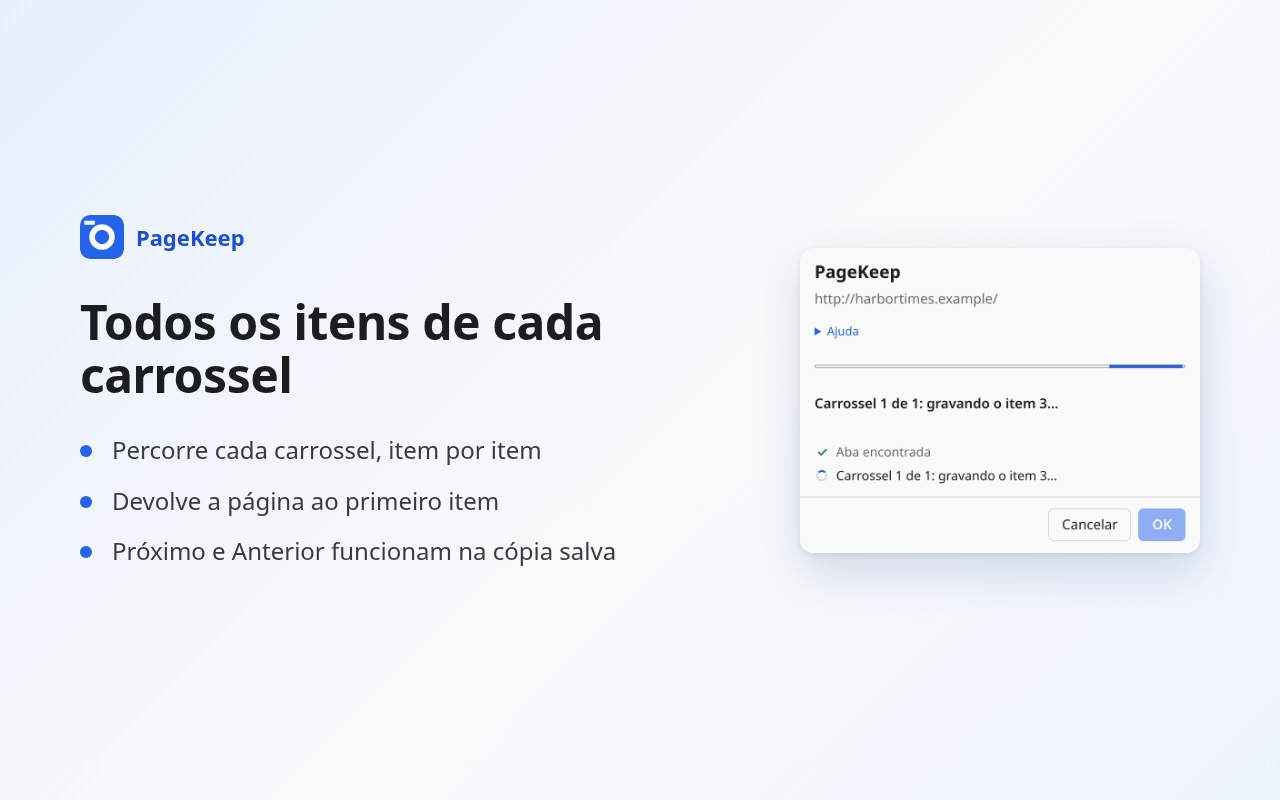
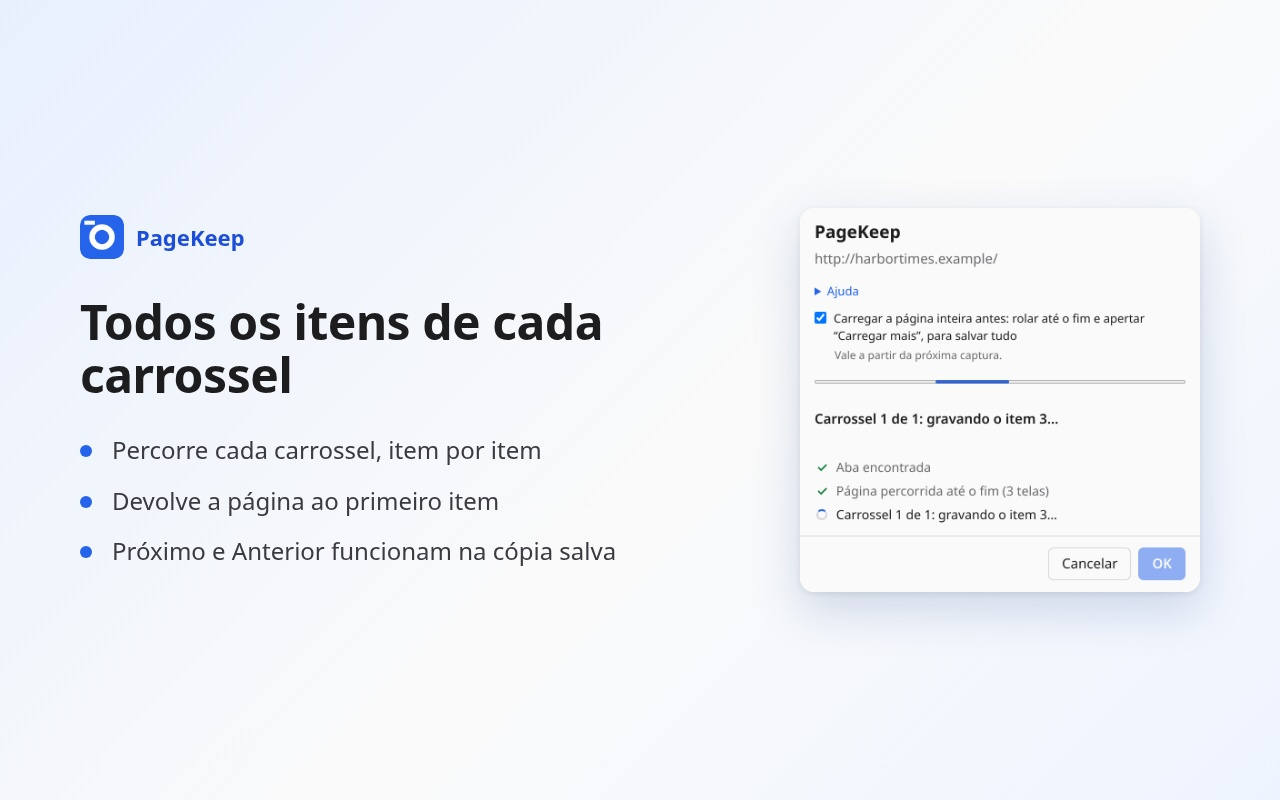
Load the whole page first: scroll to the end and press "Load more"
- inpage.js revealAll(): before copying, scroll the page (or an app's
  own scrolling pane) screen by screen, following it as it grows, up
  to 40 screens or 20 s; press up to 5 "Load more" / "Carregar mais" /
  "Ver mais" / "Cargar más" buttons (labels compared without accents),
  never a link to another page or a form button; then scroll back.
- A popup option, "Load the whole page first", on by default: the
  extension's only setting (settings.reveal in storage.local), read by
  background.js when a capture starts and passed to the capture; it
  applies from the next capture. The popup shows the new step.
- carousel.mjs: a lazy image far down, a "Carregar mais" list (pressed
  twice), a "Ver mais" link that must not be followed, scroll restored,
  and the option switched off in the popup skipping the step.
- PRIVACY.md, STORE-POLICY.md (storage), help pages, READMEs, store
  descriptions, screenshots and store pictures updated. CLAUDE.md gains
  the goal as the user stated it. Version 1.3.0.

Changed region(s): [[0.625, 0.2812, 0.9375, 0.5312], [0.625, 0.625, 0.9375, 0.75], [0.625, 0.5625, 0.8438, 0.6562]]

diff --git a/page-snapshot-extension/inpage.js b/page-snapshot-extension/inpage.js
@@ -7,9 +7,14 @@
 // offscreen.js, which has DOM APIs and cross-origin fetch.
 
 // `editorTexts` comes from inpage-main.js: the full text of Monaco editors, keyed by data-uri.
-export async function extractPage(editorTexts = {}) {
+// `options.reveal`: first scroll through the page and press its "Load more" buttons, so content
+// that only appears then is in the copy too (the popup's "Load the whole page first" option).
+export async function extractPage(editorTexts = {}, options = {}) {
   const MAX_FRAME_DEPTH = 4;
   const MAX_PAGER_ITEMS = 60;
+  const MAX_SCREENS = 40; // endless feeds stop here…
+  const MAX_REVEAL_MS = 20_000; // …or here
+  const MAX_LOAD_MORE = 5;
   const frames = {};
   let frameCounter = 0;
 
@@ -168,6 +173,77 @@ export async function extractPage(editorTexts = {}) {
       if (now === last) return;
       last = now;
     }
+  }
+
+  // ---- Content that only appears as you scroll, or after "Load more" --------------------------
+  //
+  // Lazy images and blocks load when they come into view, and lists grow when their "Load more"
+  // button is pressed: before copying, scroll through the page screen by screen (following it
+  // as it grows, up to MAX_SCREENS or MAX_REVEAL_MS), press up to MAX_LOAD_MORE such buttons, and
+  // go back to where the user was.
+  const LOAD_MORE_RE = /^(?:(?:load|show|see|view) more(?: \w+)?|(?:carregar|ver|mostrar|exibir) mais(?: \w+)?|(?:cargar|ver|mostrar) mas(?: \w+)?)$/;
+  // A real link to another page is never followed, and a form is never submitted.
+  const leavesPage = (el) => {
+    if (submitsForm(el)) return true;
+    const link = el.closest('a[href]');
+    const href = link && link.getAttribute('href').trim();
+    return !!href && !href.startsWith('#') && !/^javascript:/i.test(href);
+  };
+  // The element that scrolls the page: the document, or an app's own scrolling pane.
+  function scroller() {
+    const root = document.scrollingElement || document.documentElement;
+    if (root.scrollHeight > innerHeight + 2) return root;
+    let best = null;
+    for (const el of document.querySelectorAll('body *')) {
+      if (el.scrollHeight <= el.clientHeight + 2 || el.clientHeight < innerHeight / 2) continue;
+      if (!/(auto|scroll)/.test(getComputedStyle(el).overflowY)) continue;
+      if (!best || el.scrollHeight > best.scrollHeight) best = el;
+    }
+    return best || root;
+  }
+  // Waits until the page stops growing (new items or images arriving).
+  async function grown() {
+    let last = document.getElementsByTagName('*').length;
+    for (let waited = 0; waited < 3000; waited += 200) {
+      await sleep(200);
+      const now = document.getElementsByTagName('*').length;
+      if (now === last && waited >= 400) return;
+      last = now;
+    }
+  }
+  async function revealAll() {
+    report({ phase: 'reveal' });
+    const pane = scroller();
+    const start = { left: pane.scrollLeft, top: pane.scrollTop };
+    const deadline = Date.now() + MAX_REVEAL_MS;
+    let screens = 0;
+    let pressed = 0;
+    const scrollDown = async () => {
+      while (screens < MAX_SCREENS && Date.now() < deadline && !cancelled) {
+        const before = pane.scrollTop;
+        pane.scrollTop = before + pane.clientHeight * 0.9;
+        screens++;
+        await sleep(250);
+        if (pane.scrollTop + pane.clientHeight >= pane.scrollHeight - 2 || pane.scrollTop === before) {
+          await grown(); // an endless feed adds items at the bottom
+          if (pane.scrollTop + pane.clientHeight >= pane.scrollHeight - 2) return;
+        }
+      }
+    };
+    await scrollDown();
+    while (pressed < MAX_LOAD_MORE && Date.now() < deadline && !cancelled) {
+      const button = Array.from(document.querySelectorAll('button, [role="button"], a'))
+        .find((el) => LOAD_MORE_RE.test(plain(el.textContent || el.getAttribute('aria-label'))) && !leavesPage(el) && !isDisabled(el) && el.offsetParent !== null);
+      if (!button) break;
+      button.scrollIntoView({ block: 'center' });
+      button.click();
+      pressed++;
+      await grown();
+      await scrollDown(); // what it added may load more as it comes into view
+    }
+    pane.scrollTo(start.left, start.top);
+    await sleep(300);
+    report({ phase: 'reveal-done', screens, pressed });
   }
 
   function fragmentHtml(region) {
@@ -455,7 +531,8 @@ export async function extractPage(editorTexts = {}) {
     }
   };
   try {
-    recorded = await explorePagers();
+    if (options.reveal) await revealAll();
+    if (!cancelled) recorded = await explorePagers();
   } finally {
     try { chrome.runtime.onMessage.removeListener(onCancel); } catch { /* not in an extension */ }
   }

diff --git a/page-snapshot-extension/background.js b/page-snapshot-extension/background.js
@@ -50,8 +50,16 @@ async function clearJob(job) {
   if (job) await setBadge(job.tabId, '');
 }
 
+// The popup's option "Load the whole page first" (on unless the user turned it off), kept in
+// storage.local, the extension's only setting.
+async function revealOption() {
+  const { settings } = await chrome.storage.local.get('settings');
+  return settings?.reveal !== false;
+}
+
 async function startCapture(tabId) {
   const tab = await chrome.tabs.get(tabId);
+  const reveal = await revealOption();
   const job = {
     jobId: crypto.randomUUID(),
     tabId,
@@ -64,7 +72,7 @@ async function startCapture(tabId) {
   await chrome.storage.session.set({ job });
   await setBadge(tabId, 'running');
   await chrome.offscreen.createDocument({
-    url: `${OFFSCREEN}?tabId=${tabId}&job=${job.jobId}&version=${chrome.runtime.getManifest().version}`,
+    url: `${OFFSCREEN}?tabId=${tabId}&job=${job.jobId}&version=${chrome.runtime.getManifest().version}&reveal=${reveal ? 1 : 0}`,
     reasons: ['DOM_PARSER', 'BLOBS'],
     justification: 'Rebuilds the captured page with its files and packs it into a ZIP while the popup may be closed.',
   });
@@ -150,7 +158,7 @@ const inTab = async (tabId, func, args, world) =>
 const rpc = {
   tab: ({ tabId }) => chrome.tabs.get(tabId).then((t) => ({ url: t.url || '' })),
   readEditors: ({ tabId }) => inTab(tabId, readEditorsInMainWorld, [], 'MAIN'),
-  extractPage: ({ tabId, editorTexts }) => inTab(tabId, extractPage, [editorTexts]),
+  extractPage: ({ tabId, editorTexts, options }) => inTab(tabId, extractPage, [editorTexts, options]),
   fetchInTab: ({ tabId, url }) => inTab(tabId, fetchInTab, [url]),
   attach: async ({ tabId }) => {
     await chrome.debugger.attach({ tabId }, '1.3');

diff --git a/page-snapshot-extension/offscreen.js b/page-snapshot-extension/offscreen.js
@@ -44,6 +44,7 @@ const params = new URLSearchParams(location.search);
 const tabId = Number(params.get('tabId'));
 const jobId = params.get('job');
 const version = params.get('version'); // offscreen documents have no chrome.runtime.getManifest
+const reveal = params.get('reveal') === '1'; // the popup's "Load the whole page first" option
 
 async function call(op, args = {}) {
   const reply = await chrome.runtime.sendMessage({ type: 'rpc', op, args: { tabId, ...args } });
@@ -112,6 +113,11 @@ chrome.runtime.onMessage.addListener((report, sender) => {
     case 'carousel-done': step(id, msg('carousel_done', pager, pagers, report.items), 'done'); break;
     case 'carousel-skip': dropStep(id); break;
     case 'snapshot': step('dom', msg('step_dom_copying')); break;
+    case 'reveal': step('reveal', msg('step_reveal')); break;
+    case 'reveal-done': step('reveal', [
+      msg('step_reveal_done', report.screens),
+      ...(report.pressed ? [plural(report.pressed, 'step_reveal_pressed')] : []),
+    ], 'done'); break;
     default: break;
   }
 });
@@ -607,7 +613,7 @@ async function main() {
     else dropStep('editors');
 
     step('read', msg('step_read'));
-    page = await call('extractPage', { editorTexts: editorTexts || {} });
+    page = await call('extractPage', { editorTexts: editorTexts || {}, options: { reveal } });
     if (page?.cancelled) return; // background.js is closing this document
     if (!page) throw new Error('the page returned nothing');
     dropStep('read');

diff --git a/page-snapshot-extension/popup.html b/page-snapshot-extension/popup.html
@@ -18,6 +18,7 @@
       <ul>
         <li><strong data-i18n="help_close_label"></strong> <span data-i18n="help_close"></span></li>
         <li><strong data-i18n="cancel"></strong> <span data-i18n="help_cancel"></span></li>
+        <li><strong data-i18n="help_reveal_label"></strong> <span data-i18n="help_reveal"></span></li>
         <li><strong data-i18n="ok"></strong> <span data-i18n="help_ok"></span></li>
         <li><strong data-i18n="download_again"></strong> <span data-i18n="help_download"></span></li>
         <li data-i18n="help_one"></li>
@@ -25,6 +26,8 @@
       </ul>
       <p><a id="help-page" href="help.html" target="_blank" data-i18n="help_full"></a></p>
     </details>
+    <label class="option"><input type="checkbox" id="opt-reveal"> <span data-i18n="option_reveal"></span></label>
+    <p class="option-hint" data-i18n="option_reveal_hint"></p>
     <progress id="bar"></progress>
     <p id="status" role="status" data-i18n="status_starting"></p>
     <p id="now" class="muted"></p>

diff --git a/page-snapshot-extension/help.pt_BR.html b/page-snapshot-extension/help.pt_BR.html
@@ -57,6 +57,11 @@
     <section id="running">
       <h2>Durante a captura</h2>
       <ul>
+        <li><strong>Carregar a página inteira antes</strong> (opção no popup, ligada a menos que você desligue): antes de
+          salvar, o PageKeep rola a página até o fim e aperta os botões "Carregar mais", para salvar também as imagens e
+          listas que só aparecem assim, e depois volta para onde você estava. Ele nunca segue um link para outra página
+          nem envia um formulário. Feeds infinitos param em 40 telas ou 20 segundos. A opção vale a partir da próxima
+          captura, já que a captura começa quando o popup abre.</li>
         <li><strong>Você pode fechar o popup</strong> ou clicar na página: a captura continua em segundo plano. Clique no
           ícone de novo para ver como está.</li>
         <li>O selo do ícone mostra <strong>…</strong> enquanto roda, <strong>✓</strong> quando termina e

diff --git a/page-snapshot-extension/help.html b/page-snapshot-extension/help.html
@@ -57,6 +57,11 @@
     <section id="running">
       <h2>While it runs</h2>
       <ul>
+        <li><strong>Load the whole page first</strong> (an option in the popup, on unless you turn it off): before
+          saving, PageKeep scrolls through the page and presses its "Load more" buttons, so pictures and lists that only
+          appear then are saved too, and goes back to where you were. It never follows a link to another page or sends a
+          form. Endless feeds stop after 40 screens or 20 seconds. The option applies from the next capture, since a
+          capture starts as soon as the popup opens.</li>
         <li><strong>You can close the popup</strong>, or click on the page: the capture carries on in the background.
           Click the icon again to see how it is going.</li>
         <li>The icon's badge shows <strong>…</strong> while it runs, <strong>✓</strong> when it is done and

diff --git a/page-snapshot-extension/popup.css b/page-snapshot-extension/popup.css
@@ -25,6 +25,9 @@ details { margin-top: 12px; }
 li { overflow-wrap: anywhere; margin: 4px 0; font-size: 13px; }
 #notes { padding-left: 1.2em; margin: 8px 0; }
 #notes .warn { color: var(--error); }
+.option { display: flex; gap: 8px; align-items: flex-start; font-size: 13px; margin: 10px 0 0; cursor: pointer; }
+.option input { margin: 2px 0 0; }
+.option-hint { font-size: 12px; color: var(--muted); margin: 2px 0 0 22px; }
 #status { font-weight: 600; margin-bottom: 2px; }
 #now { font-size: 12px; margin: 0 0 8px; min-height: 1.4em; font-family: ui-monospace, monospace; overflow: hidden; text-overflow: ellipsis; white-space: nowrap; }
 #steps { list-style: none; padding: 0; margin: 12px 0; }

diff --git a/page-snapshot-extension/popup.js b/page-snapshot-extension/popup.js
@@ -75,6 +75,13 @@ $('cancel').onclick = async () => {
 };
 $('download').onclick = () => send('popup-download');
 
+// "Load the whole page first": a setting for the next captures (this one has already started).
+chrome.storage.local.get('settings').then(({ settings }) => { $('opt-reveal').checked = settings?.reveal !== false; });
+$('opt-reveal').onchange = async () => {
+  const { settings } = await chrome.storage.local.get('settings');
+  await chrome.storage.local.set({ settings: { ...settings, reveal: $('opt-reveal').checked } });
+};
+
 chrome.storage.session.onChanged.addListener((changes) => {
   if (changes.job) render(changes.job.newValue);
 });

diff --git a/CLAUDE.md b/CLAUDE.md
@@ -6,12 +6,14 @@ This file provides guidance to Claude Code (claude.ai/code) when working with co
 
 `page-snapshot-extension/` is PageKeep (called Page Snapshot up to 1.1.1; the folder and the repository keep the old name), a plain-JavaScript Manifest V3 extension for Chromium browsers (Chrome, Opera, Edge…) that saves the active tab as an offline ZIP (see its `README.md`). It has no build step and no npm dependencies: load the folder unpacked on the browser's extensions page. It previously lived in `asantos43/projetos-ia-genericos` under `chrome-extensions/`, where a frozen copy remains; do not edit that copy.
 
-Architecture: the toolbar button (or Alt+Shift+S) opens `popup.html`, the action popup under the icon, which only renders the capture and sends OK / Cancel / Download again; the captured tab stays visible, so Chrome does not throttle its timers while carousels are stepped. `background.js` (a module service worker) keeps the capture ("job") in `chrome.storage.session`, sets the icon badge, and runs the capture in an offscreen document (`offscreen.html`), which lives on when the popup closes; the offscreen page only has `chrome.runtime`, so it asks `background.js` for every `chrome.tabs` / `scripting` / `debugger` / `downloads` call. One capture at a time. No host permissions: `activeTab` gives the captured tab, and files the tab had not loaded are downloaded by the tab itself through the debugger (`Network.loadNetworkResource`); see `docs/STORE-POLICY.md`, the Chrome Web Store checklist that every release must pass. `inpage.js` runs in the tab and snapshots the live DOM (and steps through carousels, and turns Monaco editors into plain text), with `inpage-main.js` reading editor text from the page's own JS world. `offscreen.js` (Cancel makes `background.js` tell `inpage.js` to stop and restore carousels, then close the offscreen document) reads the resources the tab already loaded through `chrome.debugger`, downloads the rest (throttled per host, retrying 429/503), rewrites URLs and builds the ZIP with `lib/zip.js`. The full help page is `help.html` (English) and `help.pt_BR.html`, linked from the popup's Help through the `help_page` message. Every text is in `_locales/en` and `_locales/pt_BR` (same keys); the offscreen page has no `chrome.i18n`, so it publishes texts as `{ key, args }` and `popup.js` translates them. `lib/helpers.js` holds the pure, Node-testable helpers. `lib/offline/` is the offline library: one self-contained local script per kind of element (`disclosure.js`, `tabs.js`, `pager.js` for carousels recorded item by item, `slider.js` for sliding strips whose positions the capture recorded, `editors.js`), listed with a `needed(html)` test in `index.js`; `offscreen.js` embeds only the modules a saved page needs.
+Architecture: the toolbar button (or Alt+Shift+S) opens `popup.html`, the action popup under the icon, which only renders the capture and sends OK / Cancel / Download again; the captured tab stays visible, so Chrome does not throttle its timers while carousels are stepped. `background.js` (a module service worker) keeps the capture ("job") in `chrome.storage.session`, sets the icon badge, and runs the capture in an offscreen document (`offscreen.html`), which lives on when the popup closes; the offscreen page only has `chrome.runtime`, so it asks `background.js` for every `chrome.tabs` / `scripting` / `debugger` / `downloads` call. One capture at a time. With the popup's "Load the whole page first" option (the extension's only setting, `settings.reveal` in `chrome.storage.local`, on by default), `inpage.js` first scrolls through the page and presses "Load more" buttons. No host permissions: `activeTab` gives the captured tab, and files the tab had not loaded are downloaded by the tab itself through the debugger (`Network.loadNetworkResource`); see `docs/STORE-POLICY.md`, the Chrome Web Store checklist that every release must pass. `inpage.js` runs in the tab and snapshots the live DOM (and steps through carousels, and turns Monaco editors into plain text), with `inpage-main.js` reading editor text from the page's own JS world. `offscreen.js` (Cancel makes `background.js` tell `inpage.js` to stop and restore carousels, then close the offscreen document) reads the resources the tab already loaded through `chrome.debugger`, downloads the rest (throttled per host, retrying 429/503), rewrites URLs and builds the ZIP with `lib/zip.js`. The full help page is `help.html` (English) and `help.pt_BR.html`, linked from the popup's Help through the `help_page` message. Every text is in `_locales/en` and `_locales/pt_BR` (same keys); the offscreen page has no `chrome.i18n`, so it publishes texts as `{ key, args }` and `popup.js` translates them. `lib/helpers.js` holds the pure, Node-testable helpers. `lib/offline/` is the offline library: one self-contained local script per kind of element (`disclosure.js`, `tabs.js`, `pager.js` for carousels recorded item by item, `slider.js` for sliding strips whose positions the capture recorded, `editors.js`), listed with a `needed(html)` test in `index.js`; `offscreen.js` embeds only the modules a saved page needs.
+
+The goal, in the user's words: the snapshot is a "photo" of the page to have offline, as close as possible to the online original: responsive, with all the content the page has (texts, images, files) and with its elements working (carousels, tabs…). Judge every change by how close the offline copy gets to the live page. The capture may act on the page to bring content in (scroll through it, press "Load more", step through carousels), always putting it back as it was.
 
 Rules that shape the design:
 
 - A snapshot must never contact the network when opened: the page's own scripts, `ping` attributes and cross-origin iframes are removed, and references to anything that could not be saved are dropped rather than left pointing online.
-- Local scripts that restore page behaviour offline are welcome (add a module to `lib/offline/` when interactive content is already in the saved DOM, or when the capture can record what the page's script would do, as `slider.js` does); they must be self-contained and never use the network.
+- The page's own scripts never go into the copy; the local scripts of `lib/offline/` are the extension's own, written only to reproduce the page's behaviour offline. Local scripts that restore page behaviour offline are welcome (add a module to `lib/offline/` when interactive content is already in the saved DOM, or when the capture can record what the page's script would do, as `slider.js` does); they must be self-contained and never use the network.
 
 `PRIVACY.md` (English and Portuguese) is the privacy policy, published as the public gist https://gist.github.com/asantos43/a0566af48d0894dc44b72bee43b22da8 for the store; after changing it, run `gh gist edit a0566af48d0894dc44b72bee43b22da8 --filename PRIVACY.md PRIVACY.md` (confirm with the user first: it is an external action). `store/` holds the Chrome Web Store listing: `README.md` (field by field), `PUBLISHING.md` (the dashboard steps, in Portuguese), the descriptions (`description.en.txt`, `description.pt_BR.txt`, plain text, naming no other product) and the pictures. `docs/DEVELOPMENT.md` holds the background that is not in the code: tool versions, how to load and test in each browser, versioning and releases, and how this repository was extracted.
 

diff --git a/PRIVACY.md b/PRIVACY.md
@@ -1,6 +1,6 @@
 # PageKeep — Privacy policy
 
-*Last updated: 2026-09-27. Published at https://gist.github.com/asantos43/a0566af48d0894dc44b72bee43b22da8. Português abaixo.*
+*Last updated: 2026-09-27 (the option to load the whole page). Published at https://gist.github.com/asantos43/a0566af48d0894dc44b72bee43b22da8. Português abaixo.*
 
 PageKeep is a browser extension by Anderson Santos (asantos35@gmail.com). It saves the page in the
 tab you choose as a ZIP file that opens offline.
@@ -16,7 +16,9 @@ pages you save.
 - **The page you capture.** When you open PageKeep's popup on a tab (by clicking its icon or
   pressing Alt+Shift+S), it reads that page as it is on screen: its content, styles, images and
   fonts, the current values of its forms, its canvases and code editors, and every item of its
-  carousels. Password fields are always left empty. It does this only on that tab and only while
+  carousels. With the option "Load the whole page first" (on unless you turn it off), it first
+  scrolls through the page and presses its "Load more" buttons, as you could, so that content that
+  only appears then is saved too. Password fields are always left empty. It does this only on that tab and only while
   the capture runs.
 - **All of it goes only into the ZIP file** saved in your Downloads folder, on your computer. The
   ZIP also records the page's address and title and the time of the capture
@@ -37,7 +39,10 @@ saved copy makes no request at all when you open it.
 While a capture is running or its result is on screen, its progress (the page's address, the
 steps, the file name, what could not be saved) is kept in the browser's session storage, so the
 popup can show it when reopened. It is deleted when you press OK or Cancel, or when the browser
-quits; a finished capture is also deleted when its tab closes. The extension keeps no settings and no history.
+quits; a finished capture is also deleted when its tab closes.
+
+The extension's only setting, whether the popup's option "Load the whole page first" is on, is kept
+in the browser's local storage on this computer (not synced). The extension keeps no history.
 
 ## Limited Use
 
@@ -70,7 +75,9 @@ você salva.
 - **A página que você captura.** Quando você abre o popup do PageKeep numa aba (clicando no ícone
   ou apertando Alt+Shift+S), ele lê essa página como ela está na tela: o conteúdo, os estilos, as
   imagens e as fontes, os valores atuais dos formulários, os canvases e editores de código, e todos
-  os itens dos carrosséis. Campos de senha ficam sempre vazios. Isso acontece só nessa aba e só
+  os itens dos carrosséis. Com a opção "Carregar a página inteira antes" (ligada, a menos que você
+  desligue), ele primeiro rola a página até o fim e aperta os botões "Carregar mais", como você
+  faria, para salvar também o conteúdo que só aparece assim. Campos de senha ficam sempre vazios. Isso acontece só nessa aba e só
   enquanto a captura roda.
 - **Tudo isso vai apenas para o arquivo ZIP** salvo na sua pasta de Downloads, no seu computador. O
   ZIP também registra o endereço e o título da página e o horário da captura (`snapshot.json`). O
@@ -91,8 +98,11 @@ ao desenvolvedor. A cópia salva não faz nenhuma requisição quando você a ab
 Enquanto uma captura roda ou o resultado dela está na tela, o andamento (o endereço da página, as
 etapas, o nome do arquivo, o que não pôde ser salvo) fica no armazenamento de sessão do navegador,
 para o popup mostrá-lo quando for reaberto. Ele é apagado quando você aperta OK ou Cancelar, ou
-quando o navegador é encerrado; uma captura terminada também é apagada quando a aba dela é fechada. A extensão não guarda configurações nem
-histórico.
+quando o navegador é encerrado; uma captura terminada também é apagada quando a aba dela é fechada.
+
+A única configuração da extensão, se a opção "Carregar a página inteira antes" do popup está
+ligada, fica no armazenamento local do navegador, neste computador (não é sincronizada). A extensão
+não guarda histórico.
 
 ## Uso limitado
 

diff --git a/page-snapshot-extension/README.md b/page-snapshot-extension/README.md
@@ -16,6 +16,7 @@ There is no build step and no dependencies.
 
 Click the toolbar button, or press **Alt+Shift+S**. The extension's popup opens under its icon and shows what it is doing as it happens: a list with one line per phase (reading editors, stepping through each carousel item by item, copying the page, listing the files the page already loaded, downloading resources with running counts and the file being fetched right now, saving linked files, packing the ZIP), each with a spinner that turns into a check mark when done. It then downloads `<page-title>-<YYYYMMDD-HHmm>.zip`.
 
+- **Load the whole page first** (an option in the popup, on unless you turn it off): before copying, the extension scrolls through the page screen by screen, so images and blocks that only load as you scroll are there too, presses its "Load more" / "Carregar mais" / "Ver mais" / "Cargar más" buttons (up to 5; never a link to another page or a form button), then goes back to where you were. Endless feeds stop after 40 screens or 20 seconds. The option is a setting for the next captures, since a capture starts as soon as the popup opens.
 - You can close the popup, or click on the page: the capture carries on in the background. Click the icon again to see how it is going. The icon's badge shows **…** while it runs, **✓** when it is done and **!** if it failed.
 - When it is done, read the results and press **OK**, which clears them so the next click captures the page again. **Download again** saves the ZIP once more.
 - **Cancel** stops a capture in progress: carousels are put back to their first item and nothing is saved.
@@ -102,7 +103,7 @@ While it runs, Chrome shows an "Extension started debugging this browser" bar on
 - **`scripting`**: reads the DOM of the tab you clicked on.
 - **`offscreen`**: the capture runs in a hidden extension page, so it carries on when the popup closes.
 - **`downloads`**: saves the finished ZIP to your Downloads folder (the popup may be closed by then).
-- **`storage`**: keeps the capture's progress for the popup while it runs (session storage, cleared when the browser closes).
+- **`storage`**: keeps the capture's progress for the popup while it runs (session storage, cleared when the browser closes), and the one setting, the "Load the whole page first" option (local storage).
 
 The extension only touches a tab when you click the button, and nothing is sent anywhere: everything stays in your browser until the ZIP is saved to disk. The Chrome Web Store checklist, with the reasons for each permission, is in [`docs/STORE-POLICY.md`](../docs/STORE-POLICY.md).
 

diff --git a/README.md b/README.md
@@ -58,6 +58,7 @@ Cada versão é publicada em **Releases** no GitHub como `pagekeep-<versão>.zip
 
 Clique no botão da barra de ferramentas ou aperte **Alt+Shift+S**. O popup da extensão abre embaixo do ícone, mostra o progresso e, no fim, baixa `<título-da-página>-<AAAAMMDD-HHmm>.zip`.
 
+- **Carregar a página inteira antes** (opção no popup, ligada a menos que você desligue): antes de copiar, a extensão rola a página até o fim, para que imagens e blocos que só carregam ao rolar entrem na cópia, e aperta os botões "Carregar mais" / "Ver mais" / "Load more" (até 5; nunca um link para outra página nem um botão de formulário), depois volta para onde você estava. Feeds infinitos param em 40 telas ou 20 segundos. A opção vale a partir da próxima captura, já que a captura começa quando o popup abre.
 - Você pode fechar o popup ou clicar na página: a captura continua em segundo plano. Clique no ícone de novo para ver como está. O selo do ícone mostra **…** enquanto roda, **✓** quando termina e **!** se falhou.
 - **OK** fica disponível quando a captura termina: limpa o resultado, e o próximo clique no ícone captura a página de novo. **Baixar de novo** (*Download again*) baixa o mesmo ZIP de novo.
 - **Cancelar** (*Cancel*) interrompe a captura: os carrosséis voltam ao primeiro item e nada é salvo.
@@ -74,7 +75,7 @@ A página salva, aberta offline a partir do ZIP, com o carrossel funcionando:
 
 ### Um site real: TudoGostoso
 
-A página inicial de https://www.tudogostoso.com.br salva pelo PageKeep: 159 arquivos em 4,3 MB e os dois carrosséis deslizantes da página (3 e 9 posições), que continuam deslizando na cópia; aberta offline, ela não faz nenhuma requisição. O único arquivo que faltou era um endereço de estatísticas de anúncios, e a referência a ele foi removida. O retângulo cinza é um anúncio num quadro de outro site, que a cópia não carrega.
+A página inicial de https://www.tudogostoso.com.br salva pelo PageKeep, com a opção "Carregar a página inteira antes": a página foi percorrida até o fim (13 telas), são 150 arquivos em 3,5 MB, e os dois carrosséis deslizantes da página (3 e 9 posições) continuam deslizando na cópia; aberta offline, ela não faz nenhuma requisição. O único arquivo que faltou era um endereço de estatísticas de anúncios, e a referência a ele foi removida. O retângulo cinza é um anúncio num quadro de outro site, que a cópia não carrega.
 
 | O popup depois da captura | A cópia aberta offline |
 | --- | --- |
